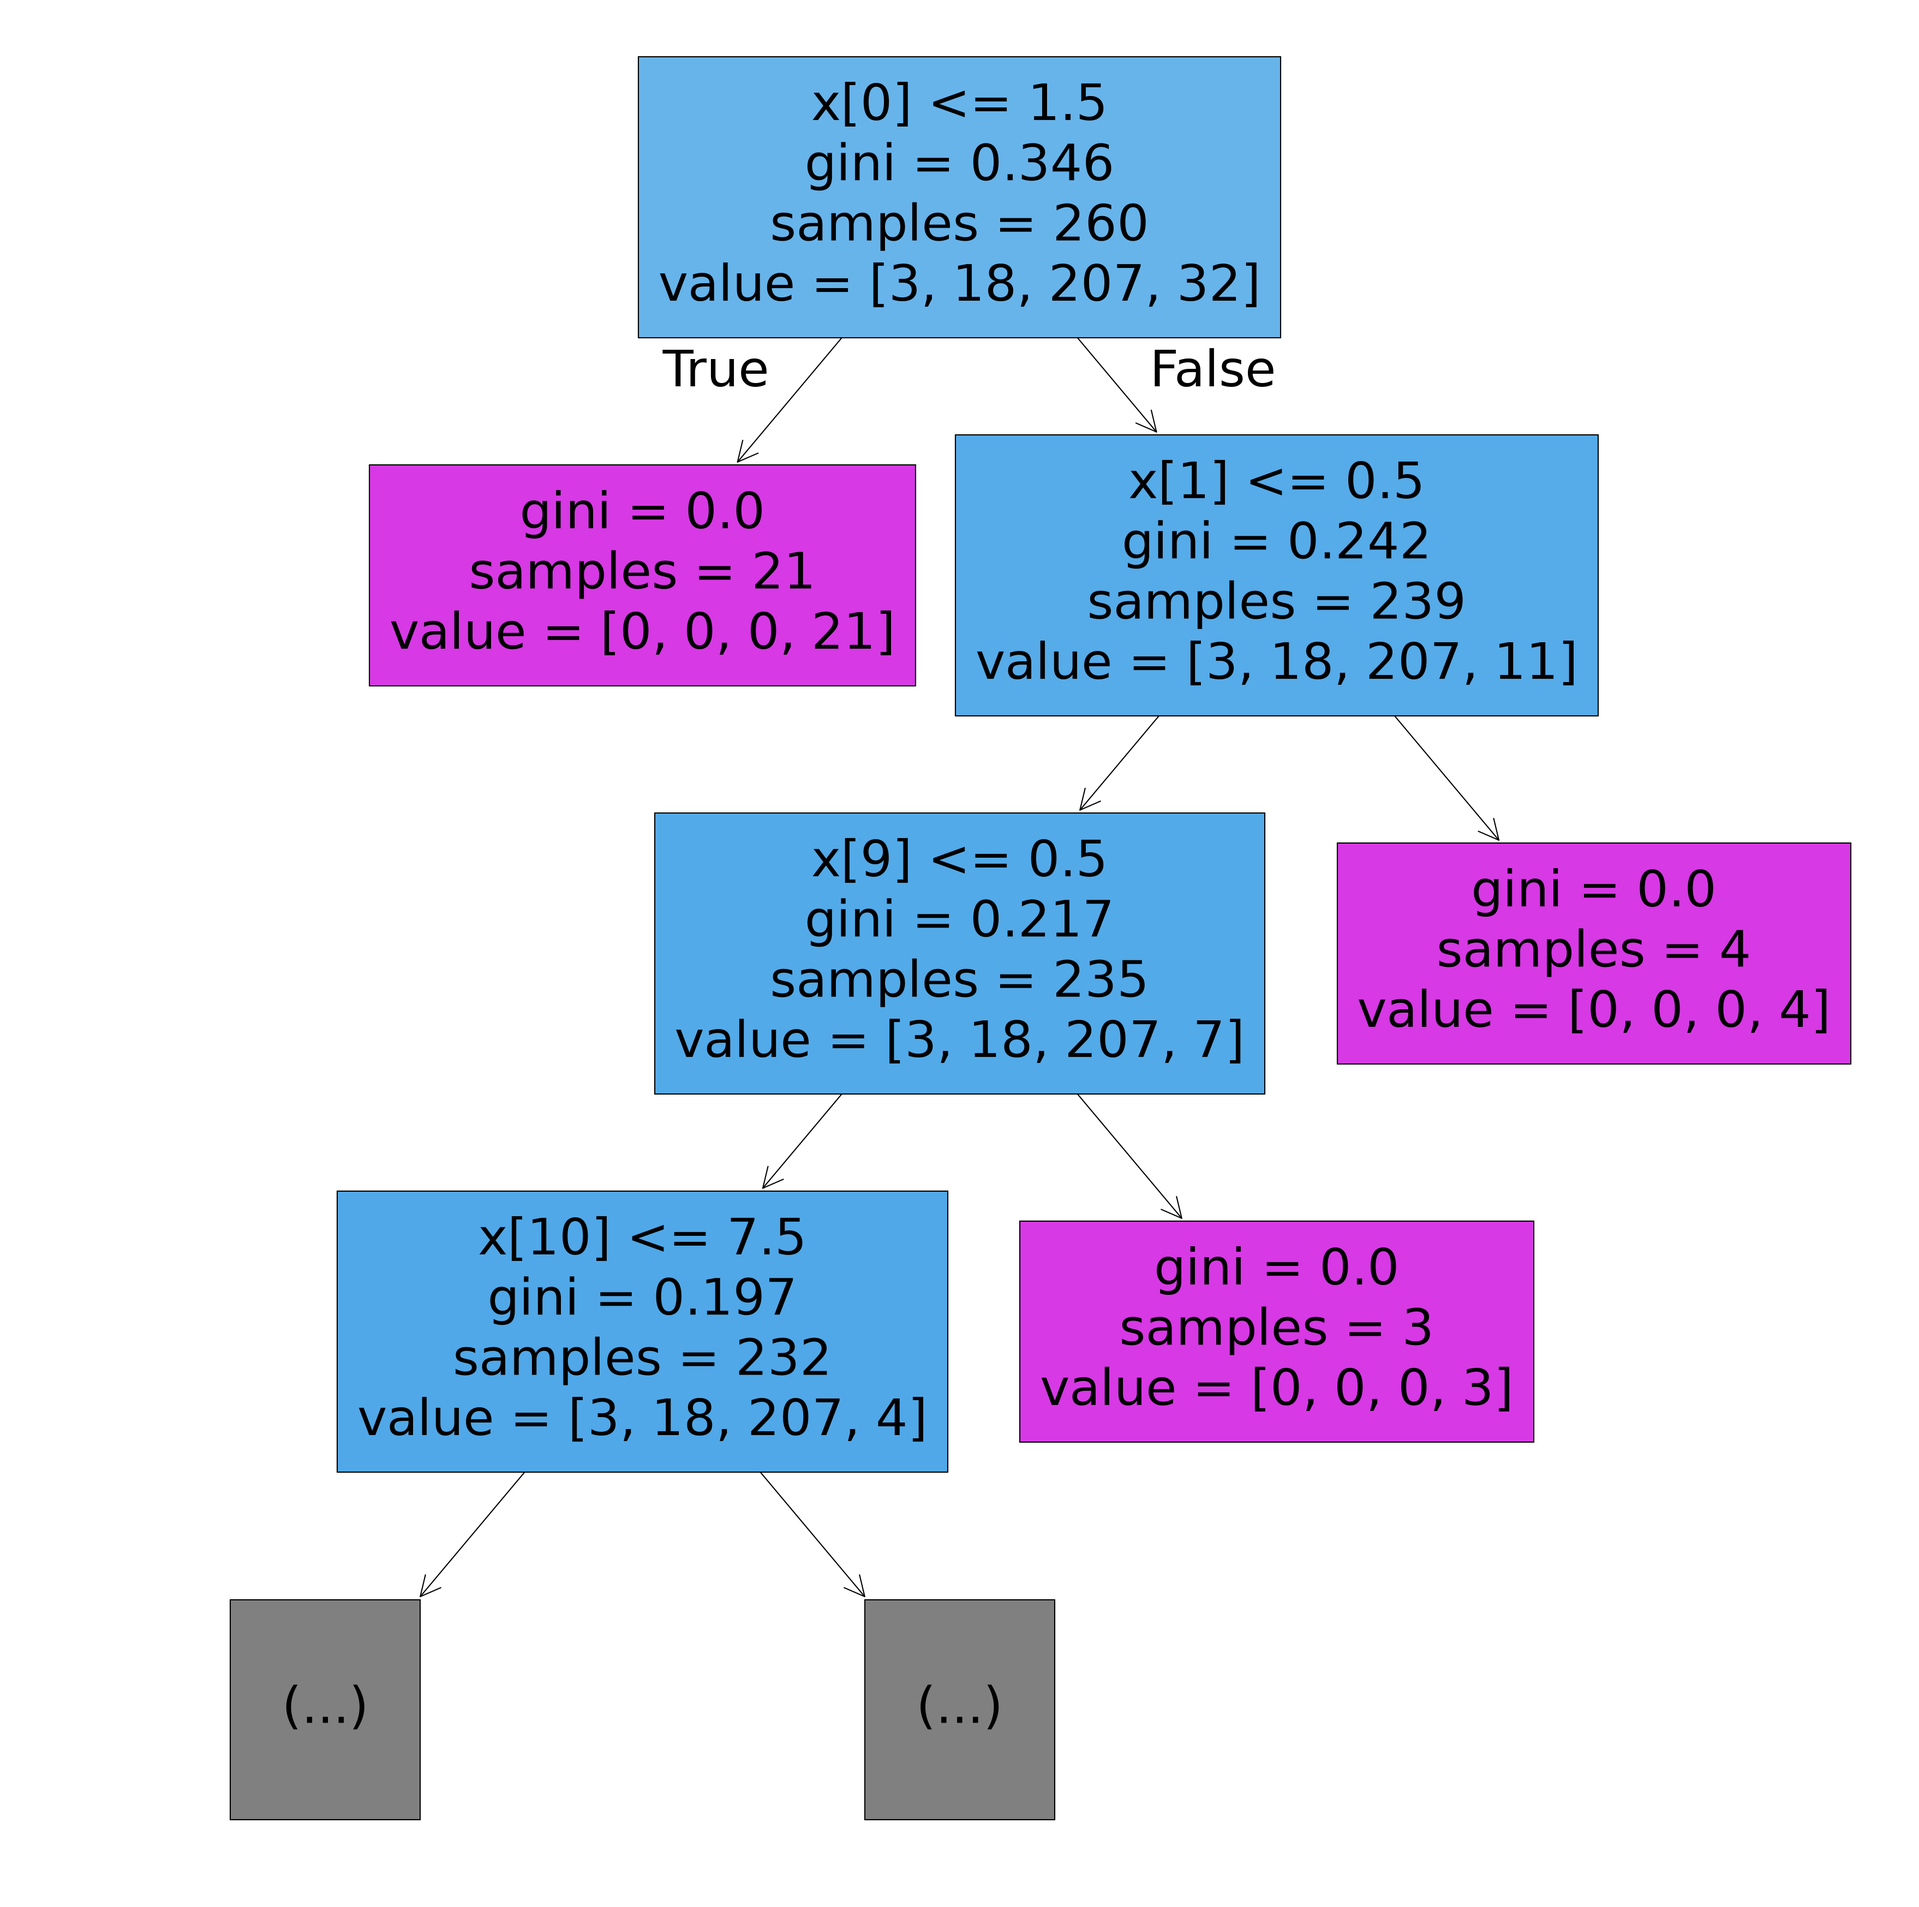
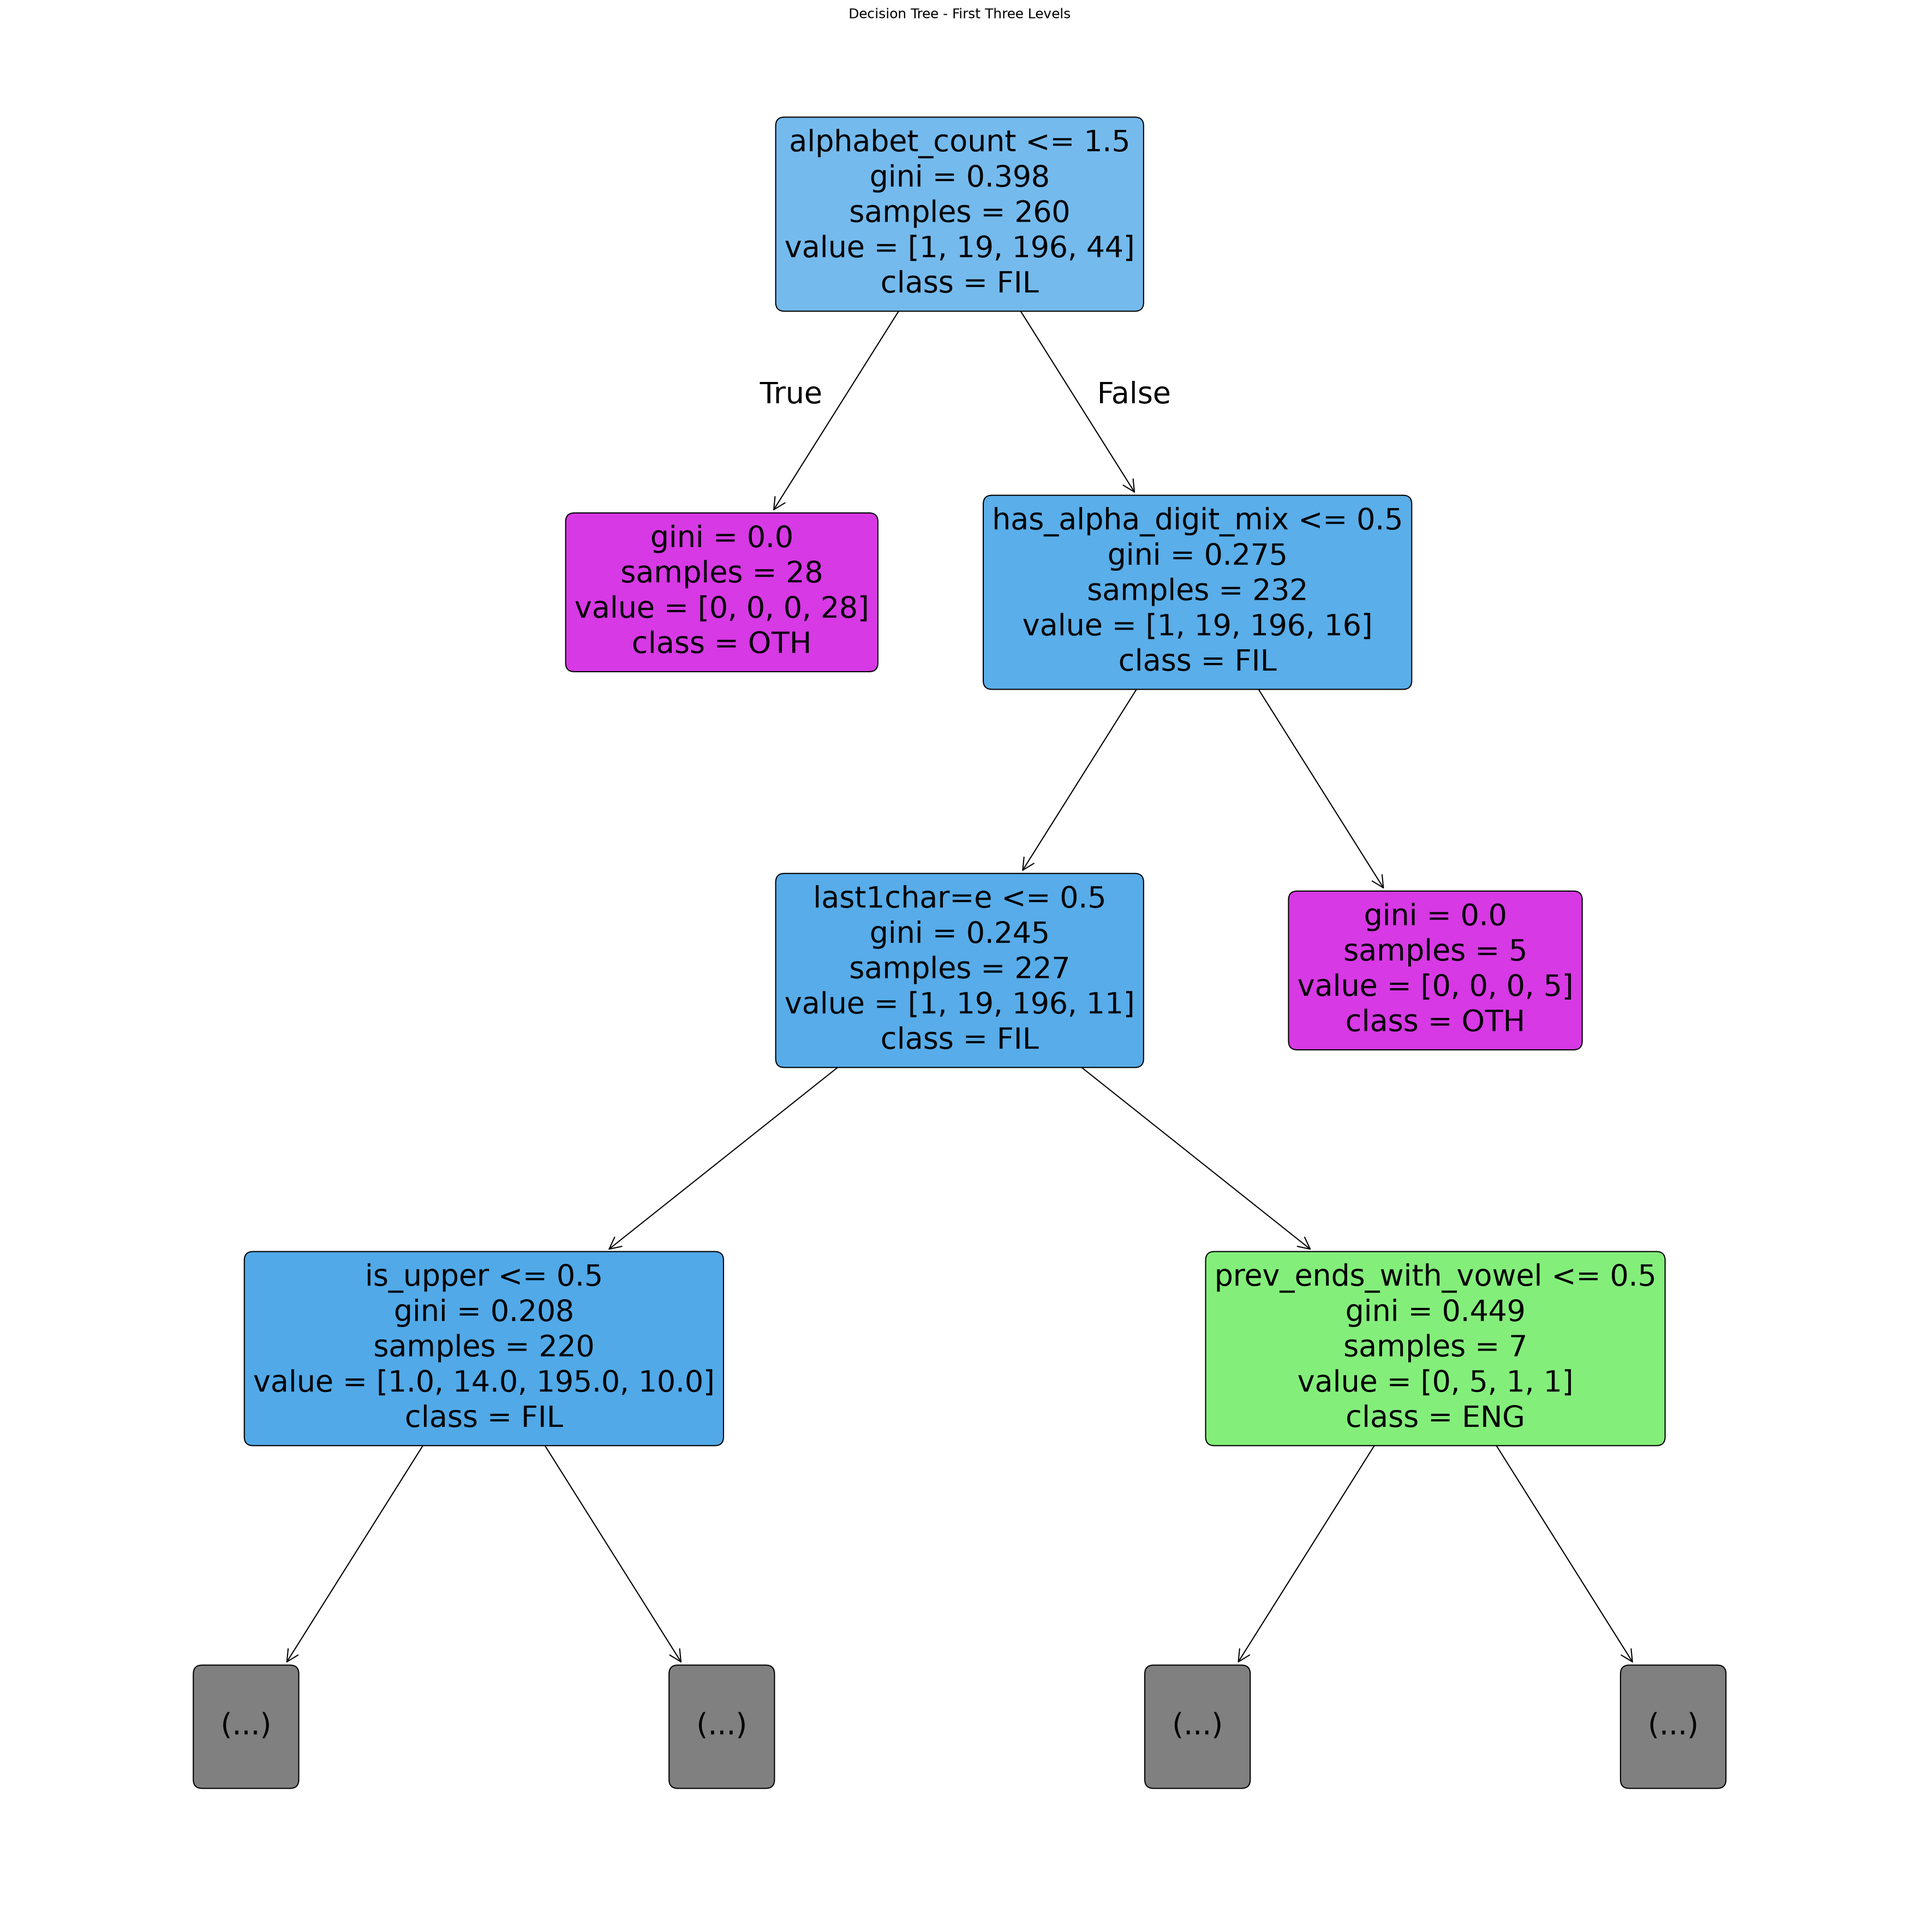
improved error analyzation

diff --git a/model_evaluation.py b/model_evaluation.py
@@ -1,6 +1,7 @@
 """ model evaluation functions """
 
 import matplotlib.pyplot as mp
+from numpy import matrix
 from model_training import train_models
 from sklearn import tree
 from sklearn.metrics import (
@@ -49,6 +50,14 @@ def evaluate_model(name, model, x, y, labels):
     print(f"F1-macro: {f1:.4f}")
     print("Classification Report:")
     print(report)
+    print("Confusion Matrix:")
+    print(f"{'':>6} {'ENG':>5} {'FIL':>5} {'CS':>5} {'OTH':>5}")
+    for label, row in zip(labels, matrix):
+        print(f"{label:>6} {row[0]:>5} {row[1]:>5} {row[2]:>5} {row[3]:>5}")
+    print()
+    print("Rows = Actual Labels")
+    print("Columns = Predicted Labels\n")
+
 
     return predict, metrics, matrix
 
@@ -140,12 +149,16 @@ def analyze_misclassified(y_true, y_pred, metadata_test):
     #summarize for error analysis
     true_label_counts = Counter([token["true_label"] for token in misclassified_tokens])
     predicted_label_counts = Counter([(token["predicted_label"]) for token in misclassified_tokens])
+    error_transitions = Counter(
+        [f"{token['true_label']} -> {token['predicted_label']}" for token in misclassified_tokens]
+    )
     word_counts = Counter([token["word"] for token in misclassified_tokens])
 
     misclassified_summary = {
         "total_misclassified": len(misclassified_tokens),
         "true_label_counts": dict(true_label_counts),
         "predicted_label_counts": dict(predicted_label_counts),
+        "error_transitions": dict(error_transitions),
         "most_frequently_misclassified_words": word_counts.most_common(10),
     }
 
@@ -156,14 +169,81 @@ def analyze_misclassified(y_true, y_pred, metadata_test):
     if not misclassified_tokens:
         print("No misclassified tokens found")
     else:
-        for token in misclassified_tokens:
-            print(f"Word: {token['word']} | Sentence ID: {token['sentence_id']} | Word ID: {token['word_id']} | True Label: {token['true_label']} | Predicted Label: {token['predicted_label']}")
+        headers = ["Token", "Sentence ID", "Word ID", "True Label", "Predicted Label"]
+        rows = [
+            [
+                token["word"],
+                str(token["sentence_id"]),
+                str(token["word_id"]),
+                token["true_label"],
+                token["predicted_label"],
+            ]
+            for token in misclassified_tokens
+        ]
+
+        column_widths = [
+            max(len(headers[i]), max(len(row[i]) for row in rows))
+            for i in range(len(headers))
+        ]
+
+        print(
+            " | ".join(
+                f"{headers[i]:<{column_widths[i]}}" for i in range(len(headers))
+            )
+        )
+        print("-+-".join("-" * column_widths[i] for i in range(len(headers))))
+
+        for row in rows:
+            print(
+                " | ".join(
+                    f"{row[i]:<{column_widths[i]}}" for i in range(len(headers))
+                )
+            )
 
     #display short summary
+    print("\n................................................")
     print("\nMisclassification Summary:")
-    print(f"Total Misclassified Tokens: {misclassified_summary['total_misclassified']}")
-    print(f"True Label Counts: {misclassified_summary['true_label_counts']}")
-    print(f"Predicted Label Counts: {misclassified_summary['predicted_label_counts']}")
+    print(f"Total misclassified tokens: {misclassified_summary['total_misclassified']}\n")
+    print("Errors by actual label:")
+    total_errors = misclassified_summary["total_misclassified"]
+    for label in LABELS:
+        count = misclassified_summary["true_label_counts"].get(label, 0)
+        rate = (count / total_errors * 100) if total_errors else 0
+        print(f"{label}: {count} ({rate:.1f}%)")
+
+    print("\nError transitions:")
+    sorted_transitions = sorted(
+        misclassified_summary["error_transitions"].items(),
+        key=lambda item: (-item[1], item[0]),
+    )
+    for transition, count in sorted_transitions:
+        print(f"{transition}: {count}")
+
+    print("\nTLDR")
+    if sorted_transitions:
+        top_transition, top_count = sorted_transitions[0]
+        if top_count > 1:
+            print(
+                f"The most repeated error pattern is {top_transition}, which appears {top_count} times."
+            )
+        else:
+            print(
+                f"The errors are spread across several transitions, with no single repeated pattern dominating."
+            )
+
+        repeated_words = [
+            f"{word} ({count})"
+            for word, count in word_counts.most_common(3)
+            if count > 1
+        ]
+        if repeated_words:
+            print(
+                "Repeated tokens among the mistakes include "
+                + ", ".join(repeated_words)
+                + "."
+            )
+    else:
+        print("No repeated error patterns were found because there were no misclassified tokens.")
 
     return misclassified_tokens, misclassified_summary
 
@@ -228,7 +308,6 @@ def plot_decision_tree(model, vectorizer, output_path="decision_tree.png"):
         filled=True,
         rounded=True,
         max_depth=3,
-        fontsize=8,
     )
 
     mp.title("Decision Tree - First Three Levels")
